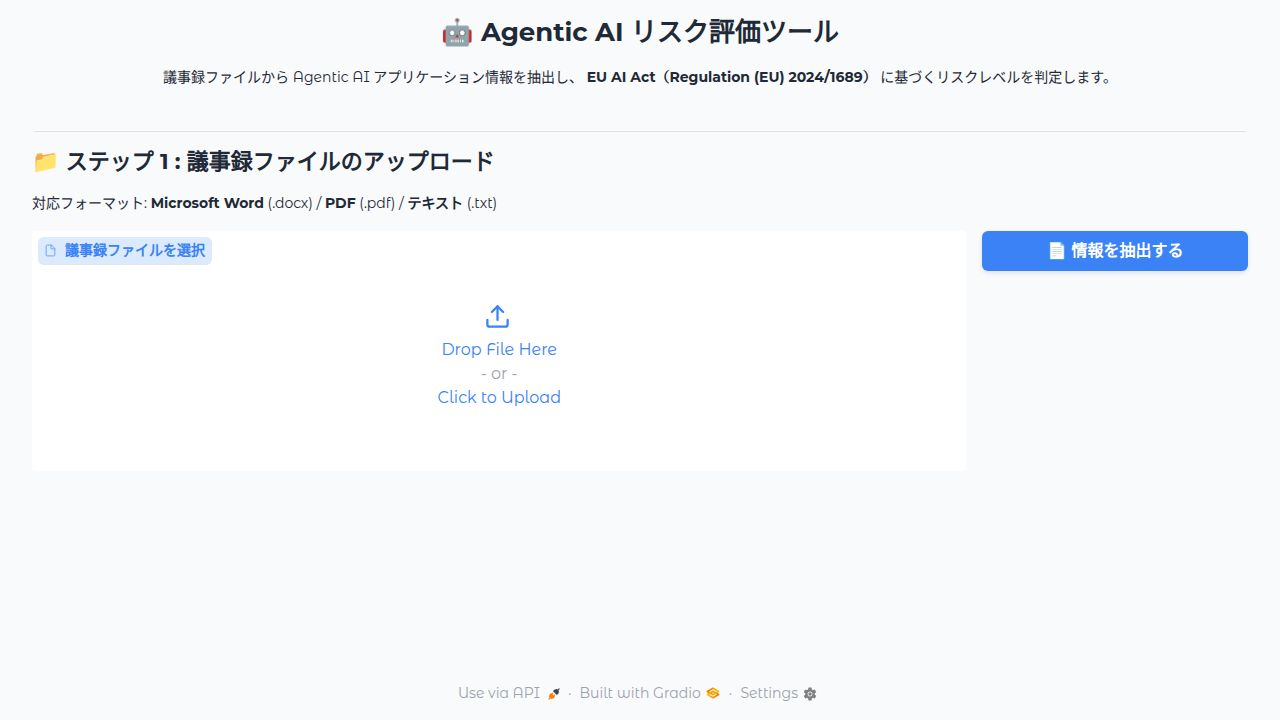
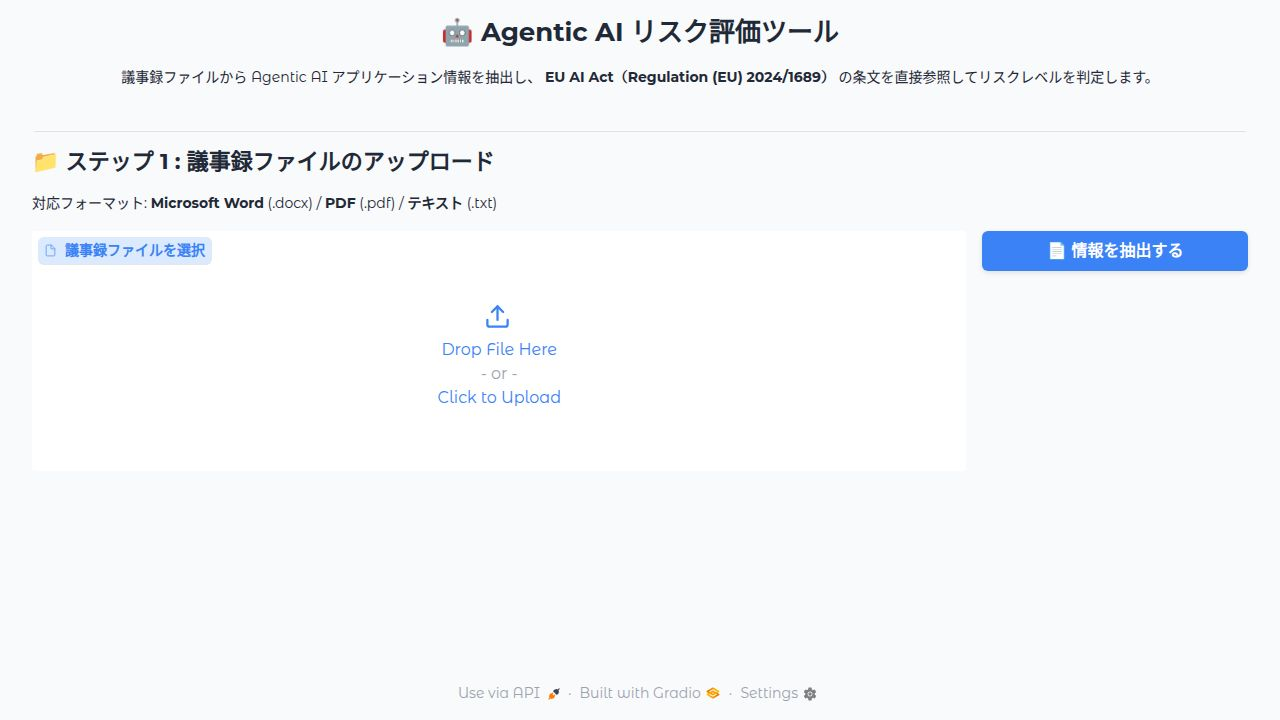
Fetch EU AI Act document dynamically and use it for risk assessment
This commit updates the risk assessment process to dynamically fetch the EU AI Act PDF from a specified URL. It then extracts relevant articles (5, 6, and 50) and strictly uses this content to determine the risk level and basis, enhancing the accuracy and compliance of the AI risk assessment.

Replit-Commit-Author: Agent
Replit-Commit-Session-Id: 58c776c1-11ee-491b-b08f-e4b5a9f98afa
Replit-Commit-Checkpoint-Type: full_checkpoint
Replit-Commit-Event-Id: c8de7523-e951-4ed0-b0a0-544f28f8f932
Replit-Commit-Screenshot-Url: https://storage.googleapis.com/screenshot-production-us-central1/b3533c3c-07c8-4561-a3d9-10f4d6cea805/58c776c1-11ee-491b-b08f-e4b5a9f98afa/ZJCvuFG
Replit-Helium-Checkpoint-Created: true

Changed region(s): [[0.0938, 0.0917, 0.9062, 0.1222]]

diff --git a/artifacts/ai-risk-app/app.py b/artifacts/ai-risk-app/app.py
@@ -9,7 +9,13 @@ sys.path.insert(0, os.path.dirname(__file__))
 import gradio as gr
 
 from file_parser import parse_file
-from graph import extract_graph, risk_graph, AppState, ExtractedInfo
+from graph import (
+    EU_AI_ACT_URL,
+    extract_graph,
+    risk_graph,
+    AppState,
+    ExtractedInfo,
+)
 
 FIELD_KEYS = [
     "overview",
@@ -30,14 +36,10 @@ FIELD_LABELS = {
 }
 
 RISK_ICONS = {
-    "禁止": "🚫",
-    "Prohibited": "🚫",
-    "高リスク": "🔴",
-    "High-Risk": "🔴",
-    "透明性": "🟠",
-    "Transparency": "🟠",
-    "限定": "🟡",
-    "Limited": "🟡",
+    "禁止": "🚫", "Prohibited": "🚫",
+    "高リスク": "🔴", "High-Risk": "🔴",
+    "透明性": "🟠", "Transparency": "🟠",
+    "限定": "🟡", "Limited": "🟡",
 }
 
 
@@ -78,12 +80,11 @@ def run_extraction(file_obj):
             gr.update(visible=False),
         )
 
-    status_msg = f"🔍 テキスト抽出完了（{len(minutes_text):,} 文字）。GPT-4oで解析中..."
-
     initial_state: AppState = {
         "minutes_text": minutes_text,
         "extracted": None,
         "edited": None,
+        "eu_ai_act_text": None,
         "risk": None,
         "error": None,
     }
@@ -110,7 +111,10 @@ def run_extraction(file_obj):
     values = [extracted.get(k, "") for k in FIELD_KEYS]
 
     return (
-        gr.update(value="✅ 情報抽出が完了しました。内容を確認・編集してからリスク評価を実行してください。", visible=True),
+        gr.update(
+            value="✅ 情報抽出が完了しました。内容を確認・編集してからリスク評価を実行してください。",
+            visible=True,
+        ),
         *values,
         gr.update(visible=True),   # edit_section
         gr.update(visible=False),  # result_section
@@ -120,10 +124,16 @@ def run_extraction(file_obj):
 # ── Step 2: Risk Assessment ───────────────────────────────────────────────────
 
 def run_risk_assessment(overview, users, data_subjects, input_cats, output_cats, purposes):
-    """Run EU AI Act risk assessment on the edited fields."""
+    """
+    Sub-agent flow:
+      1. Fetch EU AI Act PDF from EUR-Lex (fetch_eu_ai_act node)
+      2. Extract Articles 5 / 6 / 50
+      3. LLM judges risk using ONLY the fetched text (risk_assess node)
+    """
     if not any([overview, users, data_subjects, input_cats, output_cats, purposes]):
         return (
             gr.update(value="⚠️ まずファイルをアップロードして情報を抽出してください。", visible=True),
+            gr.update(visible=False),
             gr.update(visible=False),
         )
 
@@ -140,6 +150,7 @@ def run_risk_assessment(overview, users, data_subjects, input_cats, output_cats,
         "minutes_text": "",
         "extracted": None,
         "edited": edited,
+        "eu_ai_act_text": None,
         "risk": None,
         "error": None,
     }
@@ -150,15 +161,25 @@ def run_risk_assessment(overview, users, data_subjects, input_cats, output_cats,
         return (
             gr.update(value=f"❌ リスク評価エラー: {e}", visible=True),
             gr.update(visible=False),
-        )
-
-    if result.get("error"):
-        return (
-            gr.update(value=f"❌ エラー: {result['error']}", visible=True),
             gr.update(visible=False),
         )
 
-    risk = result["risk"]
+    # Error from fetch or assess node
+    if result.get("error"):
+        return (
+            gr.update(value=f"❌ {result['error']}", visible=True),
+            gr.update(visible=False),
+            gr.update(visible=False),
+        )
+
+    risk = result.get("risk")
+    if not risk:
+        return (
+            gr.update(value="❌ リスク評価結果が得られませんでした。", visible=True),
+            gr.update(visible=False),
+            gr.update(visible=False),
+        )
+
     level = risk.get("risk_level", "不明")
     basis = risk.get("risk_basis", "")
     icon = get_risk_icon(level)
@@ -168,22 +189,23 @@ def run_risk_assessment(overview, users, data_subjects, input_cats, output_cats,
 ### リスクレベル
 **{level}**
 
-### 判定根拠（第6条中心）
+### 判定根拠
 
 {basis}
 
 ---
-### 参照条文
-- **第5条 (Article 5)**: Prohibited artificial intelligence practices
-- **第6条 (Article 6)**: Classification rules for high-risk AI systems
-- **第50条 (Article 50)**: Transparency obligations for providers and deployers
-
-*出典: EU AI Act — Regulation (EU) 2024/1689*
+*判定根拠: [EU AI Act — Regulation (EU) 2024/1689]({EU_AI_ACT_URL}) より取得した条文テキストのみを使用*
 """
 
+    fetched_summary = (
+        f"✅ EU AI Act PDFを取得・解析し、Article 5 / 6 / 50 を抽出しました。\n"
+        f"取得元: {EU_AI_ACT_URL}"
+    )
+
     return (
-        gr.update(value="✅ リスク評価が完了しました。", visible=True),
+        gr.update(value=fetched_summary, visible=True),
         gr.update(value=result_md, visible=True),
+        gr.update(visible=True),
     )
 
 
@@ -191,13 +213,6 @@ def run_risk_assessment(overview, users, data_subjects, input_cats, output_cats,
 
 CSS = """
 #title { text-align: center; }
-#status_box textarea { font-size: 14px; }
-.section-header { 
-    background: #1e293b; 
-    padding: 8px 16px; 
-    border-radius: 8px; 
-    margin: 8px 0; 
-}
 .field-box textarea { min-height: 80px; }
 """
 
@@ -208,19 +223,14 @@ with gr.Blocks(title="Agentic AI リスク評価ツール") as demo:
         """# 🤖 Agentic AI リスク評価ツール
 
 議事録ファイルから Agentic AI アプリケーション情報を抽出し、
-**EU AI Act（Regulation (EU) 2024/1689）** に基づくリスクレベルを判定します。
+**EU AI Act（Regulation (EU) 2024/1689）** の条文を直接参照してリスクレベルを判定します。
 
 ---""",
         elem_id="title",
     )
 
     # ── Status ────────────────────────────────────────────────────────────────
-    status = gr.Textbox(
-        label="ステータス",
-        interactive=False,
-        visible=False,
-        elem_id="status_box",
-    )
+    status = gr.Textbox(label="ステータス", interactive=False, visible=False)
 
     # ── Step 1: File Upload ───────────────────────────────────────────────────
     gr.Markdown("## 📁 ステップ 1 : 議事録ファイルのアップロード")
@@ -245,7 +255,7 @@ with gr.Blocks(title="Agentic AI リスク評価ツール") as demo:
     with gr.Group(visible=False) as edit_section:
         gr.Markdown("## ✏️ ステップ 2 : 抽出結果の確認・編集")
         gr.Markdown(
-            "抽出された内容を確認し、必要に応じて編集してください。"
+            "抽出された内容を確認し、必要に応じて各フィールドを直接編集してください。"
             "編集後、**「リスク評価を実行する」** ボタンを押してください。"
         )
 
@@ -259,8 +269,13 @@ with gr.Blocks(title="Agentic AI リスク評価ツール") as demo:
             )
             field_boxes.append(tb)
 
+        gr.Markdown(
+            f"> ⚖️ リスク評価を実行すると、サブエージェントが "
+            f"[EU AI Act PDF]({EU_AI_ACT_URL}) を取得し、"
+            f"Article 5 / 6 / 50 の条文のみを根拠として判定します。"
+        )
         assess_btn = gr.Button(
-            "⚖️ リスク評価を実行する",
+            "⚖️ リスク評価を実行する（EU AI Act PDF を取得して判定）",
             variant="primary",
             size="lg",
         )
@@ -280,7 +295,7 @@ with gr.Blocks(title="Agentic AI リスク評価ツール") as demo:
     assess_btn.click(
         fn=run_risk_assessment,
         inputs=field_boxes,
-        outputs=[status, result_section],
+        outputs=[status, result_md, result_section],
     )
 
 